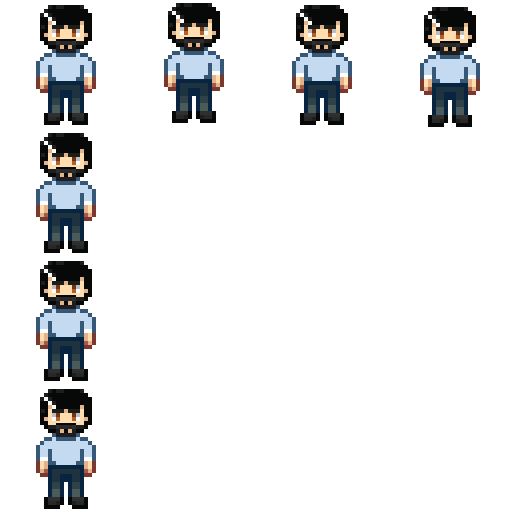
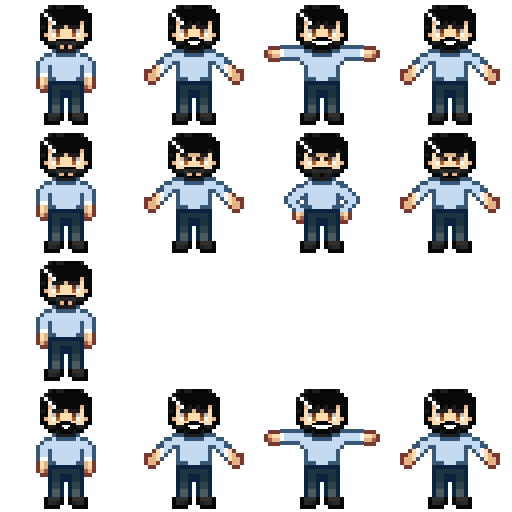
battle improvements

diff --git a/battle.py b/battle.py
@@ -2,6 +2,10 @@ from settings import *
 from time import sleep
 from timer import Timer
 from support import import_image
+from dialog import DialogSprite
+from game_data import CORRECTS_SPEAKS, WRONGS_SPEAKS
+# CORRECTS_SPEAKS =[ 'essa tava']
+# WRONGS_SPEAKS = ['Que pena! Você errou!', 'Não foi dessa vez! Você errou!', 'Você errou!']
 class Battle():
     def __init__(self, player, character, interface_frames, fonts, end_battle, sounds):
         self.player = player
@@ -31,8 +35,19 @@ class Battle():
         self.current_question = 0
         self.answer = -1
 
+        # animation
         self.x = 0
-        self.move_right = True
+        self.y = 0
+        self.move_horizontal = True
+        self.move_vertical = False
+        self.error_mode = False
+
+        # speak
+        self.character_rect = pygame.Rect(853, 137, 192, 192)
+        self.counter = 0
+        self.speed = 300
+        self.done = False
+        self.speak_rect = pygame.Rect(756, 29, 421, 99)
 
 
     def draw(self, dt):
@@ -48,33 +63,32 @@ class Battle():
             rect_B = pygame.Rect(942, 540, self.rect_width, self.rect_height)
             rect_C = pygame.Rect(632, 630, self.rect_width, self.rect_height)
             rect_D = pygame.Rect(942, 630, self.rect_width, self.rect_height)
-            question_rect = pygame.Rect(756, 29, 421, 99)
+            question_rect = pygame.Rect(93, 29, 421, 99)
             self.icon = self.interface_frames['interface'][str(self.option)]
+            name_rect = pygame.Rect(838, 370, 0, 0)
+            level_rect = pygame.Rect(844, 396, 0, 0)
 
-            # character
+
+            # character animation
             self.frame_index += ANIMATION_SPEED * dt 
-            character_surf = self.character_frames['down'][int(self.x % 4)]
+            character_surf = self.character_frames['up' if self.error_mode else 'left'][int(self.frame_index % 4)] # animation
             # player
             player_surf = self.player_frames
             
             # movement
-            if self.move_right:
-                self.x += 30 * dt
-                if self.x > 30:
-                    self.move_right = False
-            else:
-                self.x -= 30 * dt
-                if self.x < 0:
-                    self.move_right = True
-             
-            character_rect = pygame.Rect(853 + self.x, 137, 192, 192)
-            self.display_surface.blit(pygame.transform.scale(character_surf,(192,192)), character_rect)
-            self.display_surface.blit(pygame.transform.scale(self.shadow, (78,30)), character_rect.midbottom + vector(-36,-20))
-            self.display_surface.blit(player_surf, (148 + self.x , 284))
+            self.x = self.move_x(dt, 30, 30)
+            self.y = self.move_y(dt, 50, 30)
+            self.character_rect = pygame.Rect(853 + self.x, 137 + self.y, 192, 192)
+
+            self.display_surface.blit(pygame.transform.scale(character_surf,(192,192)), self.character_rect)
+            self.display_surface.blit(pygame.transform.scale(self.shadow, (78,30)), self.character_rect.midbottom + vector(-36,-20))
+            self.display_surface.blit(player_surf, (148 + (self.x // 3), 284))
 
             # surfaces
             text_surf = self.fonts['regular'].render(self.get_options(current_question_dict), False, text_color)
             question_surf = self.fonts['regular'].render(self.get_question(current_question_dict), False, text_color)
+            name_surf = self.fonts['regular_mid'].render(self.character.character_data['name'], False, text_color)
+            level_surf = self.fonts['regular_mid'].render('??????', False, text_color)
 
             # draw
             if(self.option == 0):
@@ -87,11 +101,38 @@ class Battle():
                 self.display_surface.blit(self.icon, rect_D, special_flags = pygame.BLEND_RGB_ADD )
             self.display_surface.blit(text_surf, self.option_rect)
             self.display_surface.blit(question_surf, question_rect)
+            self.display_surface.blit(name_surf, name_rect)
+            self.display_surface.blit(level_surf, level_rect)
+
+    def move_x(self, dt, speed, range):
+        if not self.error_mode:
+            if self.move_horizontal:
+                self.x += speed * dt
+                if self.x > range:
+                    self.move_horizontal = False
+            else:
+                self.x -= speed * dt
+                if self.x < 0:
+                    self.move_horizontal = True
+        return self.x
+    
+    def move_y(self, dt, speed, range):
+        if self.error_mode:
+            if self.move_vertical:
+                self.y += speed * dt
+                if self.y > range:
+                    self.move_vertical = False
+            else:
+                self.y -= speed * dt
+                if self.y < 0:
+                    self.move_vertical = True
+        return self.y
+
 
     def get_options(self,text_dict):
         new_text = []
         values_list = list(text_dict)
-        new_text.append(self.text_format(values_list[2][self.option],60))
+        new_text.append(self.text_format(values_list[2][self.option],48))
         return ''.join(new_text)
     
     def get_question(self, text_dict):
@@ -133,17 +174,47 @@ class Battle():
             if keys[pygame.K_RETURN]:
                 self.battle_timer.activate()
                 self.current_question += 1
-                if self.option == self.answer:
-                    self.test.append(1)
-                    self.sounds['correct_answer'].play()
-                else:
-                    self.test.append(0)
-                    self.sounds['wrong_answer'].play()
+                self.check_answer()
+                
+    # checagem da resposta
+    def check_answer(self):
+        if self.option == self.answer:
+            self.test.append(1)
+            self.error_mode = False
+            self.sounds['correct_answer'].play()
+            self.counter = 0
+            self.done = False
+
+        else:
+            self.test.append(0)
+            self.error_mode = True
+            self.sounds['wrong_answer'].play()
+            self.counter = 0
+            self.done = False
 
     def check_end_battle(self):
         if self.current_question == self.qtd_questions:
             self.end_battle(self.character, self.test)
 
+    def draw_dialog(self, dt):
+        # quando a pessoa erra o personagem fala um dos dialogos de erro
+        text = self.text_format(WRONGS_SPEAKS[self.current_question], 30)
+        if self.error_mode:
+            if self.counter < len(WRONGS_SPEAKS[self.current_question]) * self.speed:
+                self.counter += int(5000 * dt)
+            elif self.counter >= len(WRONGS_SPEAKS[self.current_question]) * self.speed:
+                self.done = True
+            text_surf = self.fonts['regular'].render(text[0:self.counter//self.speed], True, COLORS['black'])
+            self.display_surface.blit(text_surf, self.speak_rect)
+
+        # quando a pessoa acerta o personagem fala o dialogo de acerto
+        else:
+            if self.counter < len(CORRECTS_SPEAKS[self.current_question]) * self.speed:
+                self.counter += int(5000 * dt)
+            elif self.counter >= len(CORRECTS_SPEAKS[self.current_question]) * self.speed:
+                self.done = True                
+            text_surf = self.fonts['regular'].render(CORRECTS_SPEAKS[self.current_question][0:self.counter//self.speed], True, COLORS['black'])
+            self.display_surface.blit(text_surf, self.speak_rect)  
 
     def update(self, dt):
         self.battle_timer.update()
@@ -151,3 +222,5 @@ class Battle():
         self.input()
         self.display_surface.blit(self.battle_bg)
         self.draw(dt)
+        self.draw_dialog(dt)
+        print(self.current_question)

diff --git a/main.py b/main.py
@@ -169,6 +169,7 @@ class Game:
             'dialog': pygame.font.Font(join('.', 'graphics', 'fonts', 'PixeloidSans.ttf'), 30),
             'bold': pygame.font.Font(join('.', 'graphics', 'fonts', 'dogicapixelbold.otf'), 20),
             'regular': pygame.font.Font(join('.', 'graphics', 'fonts', 'PixeloidSans.ttf'), 18),
+            'regular_mid': pygame.font.Font(join('.', 'graphics', 'fonts', 'PixeloidSans.ttf'), 22),
             'regular_big': pygame.font.Font(join('.', 'graphics', 'fonts', 'PixeloidSans.ttf'), 34),
         }
         self.interface_frames = {
@@ -206,7 +207,6 @@ class Game:
         # Objetos em cima do terreno
         try:
             for obj in tmx_map.get_layer_by_name('Terrain Objects'):
-                print(obj)
                 Sprite((obj.x, obj.y), obj.image, self.all_sprites, GAME_LAYERS['bg'])
         except ValueError as ve:
             pass
@@ -382,6 +382,7 @@ class Game:
 
     # Callback functions
     def end_dialog(self,character):
+        self.dialog_open = None
         # batalha
         if check_battle(character) and not self.battle_open and character.character_data['visited'] == False:
             self.player.block()
@@ -395,7 +396,7 @@ class Game:
             self.add_item(Item(character.character_data['item']))
             character.character_data['item'] = None
         if not self.choose_dialog_open:
-            self.dialog_open = None
+            # self.dialog_open = None
             self.player.unblock()
             character.character_data['visited'] = True
 
@@ -411,9 +412,11 @@ class Game:
             self.dialog_open = None
             self.battle_open = True
         else:
-            self.dialog_open = None
+            self.create_dialog(character, "hahaha, veio de tão longe para arregar?", False)
+            # self.dialog_open = None
             self.choose_dialog_open = False
             self.player.unblock()
+        self.dialog_open = None
 
     def end_battle(self, character, test):
         result = sum(test)
@@ -426,7 +429,7 @@ class Game:
         if (result >= 7):
             self.sounds['correct_answer'].play()
             character.character_data['visited'] = True
-            self.create_dialog(character, text + ' tome... pegue a minha chave', False)
+            self.create_dialog(character, text + ' tome... pode ficar com a chave\ncheque no computador as questões que voce errou', False)
         else:
             self.sounds['wrong_answer'].play()
             self.create_dialog(character, text, False)
@@ -452,7 +455,7 @@ class Game:
                 self.sounds['51 - MMX - Can\'t Exit'].play()
                 key = pygame.key.get_pressed()
                 if key[pygame.K_SPACE]:
-                    self.create_dialog(self.player, "Você não pode sair sem os itens necessários", False)
+                    print('implementar')
             else:       
                 self.player.block()
                 self.transition_area = transition_rect

diff --git a/game_data.py b/game_data.py
@@ -19,7 +19,7 @@ CHARACTERS_DATA = {
     'vitor': {
 		'name': 'Vitor',
 		'dialog': {
-            'default': ['então você conseguiu chegar até aqui!', 'devo parabenizá-lo', 'mas daqui você não passa!', 'sou conhecido como javaboy', 'para conseguir a minha chave você terá que me vencer em uma batalha!', 'você aceita o desafio?'],
+            'default': ['então você conseguiu chegar até aqui!', 'devo parabenizá-lo por isso...', 'mas voce não vai conseguir minha chave tão facilmente', 'sou vitor, o javaboy', 'para conseguir a minha chave você terá que me vencer em uma batalha de java!', 'você aceita o desafio?'],
 			'visited': ['parabéns!', 'você conseguiu mostrar domínio teórico em java', 'meus parabéns!', 'agora vá conseguir a aprovação da monalessa', 'sei que você consegue' ,'boa sorte!']},
 		'directions': ['down'],
 		'look_around': True,
@@ -28,7 +28,7 @@ CHARACTERS_DATA = {
         'questions': {
 				0: {
 					'title': 'Pergunta 1',
-					'description':'Você e sua equipe estão atuando no desenvolvimento de um sistema para a plataforma de educação online. Um dos membros da equipe apresentou uma dúvida sobre a utilização do comando “try..catch..finally”.',
+					'description':'o que o bloco de comando “try..catch..finally” faz?.',
 					'options': ['Um bloco opcional que contém o código a ser executado sempre, independentemente de ocorrer ou não uma exceção. ',
                  				'Um bloco reservado apenas para manipulação de erros críticos. ',
                                 'Um bloco que só é executado se uma exceção for lançada. ',
@@ -346,7 +346,14 @@ COMPUTER_DATA = {
         'url': 'https://www.google.com',
         'color': 'white',
 	},
-    
-	
-        
 }
+
+CORRECTS_SPEAKS =[ 'vamos ver se voce é bom mesmo', 'Parabéns! Quem diria que você sabia a resposta.', 'Uau, acertou! Talvez você realmente saiba do que estamos falando aqui',
+                  'Acertou de primeira? Vou anotar isso, é um milagre!', 'Ora, ora, parece que alguém andou estudando!', 'Ah, que surpresa agradável, você acertou!',
+                  'Nossa, até me emocionei com essa resposta!', 'Ah, sabia que esse dia chegaria! Você acertou!', 'É, parece que milagres realmente acontecem!',
+                  'Veja só, nem precisei desenhar pra você entender!']
+
+WRONGS_SPEAKS = ['Nossa, quase... só faltaram todos os detalhes certos!', 'Interessante! Só não foi a resposta que eu esperava.', 'Uau, passou longe! Mas foi uma tentativa original, eu diria.',
+                  'Chegou bem perto... de errar tudo!', 'Interessante abordagem... só não se aplica a essa matéria.', 'Quase lá! Só faltou tudo!', 'Quase lá! Tipo... quase na mesma galáxia!',
+                  'Interessante abordagem! Se estivéssemos falando de outra coisa.', 'É uma resposta! Só não para essa questão.', 'Você chegou lá! Só que no lugar errado.']
+

diff --git a/dialog.py b/dialog.py
@@ -15,12 +15,12 @@ class Dialog:
         self.dialog_timer = Timer(500, autostart = True)
 
         # collision message
-        if collision_message and message:
+        if message and collision_message:
             self.dialog = message.split('\n')
             self.dialog_num = len(self.dialog)
             self.current_dialog = DialogSprite(message[self.dialog_index], self.character, self.all_sprites, self.font)
         # sprite message
-        elif not collision_message and message:
+        elif message and not collision_message:
             self.dialog = message
             self.dialog_num = 1
             self.current_dialog = DialogSprite(self.dialog, self.character, self.all_sprites, self.font)
